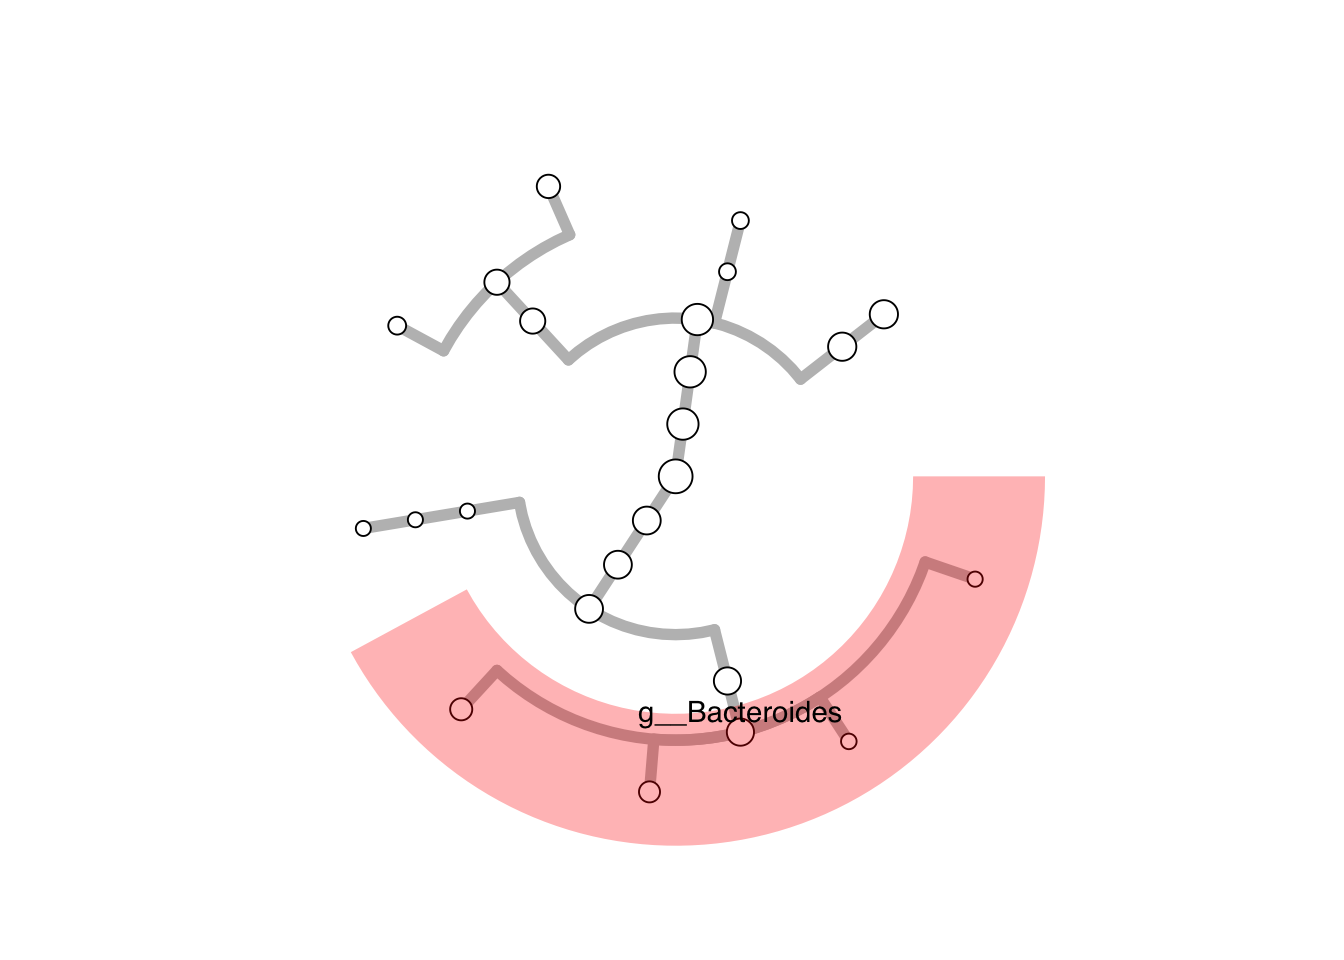
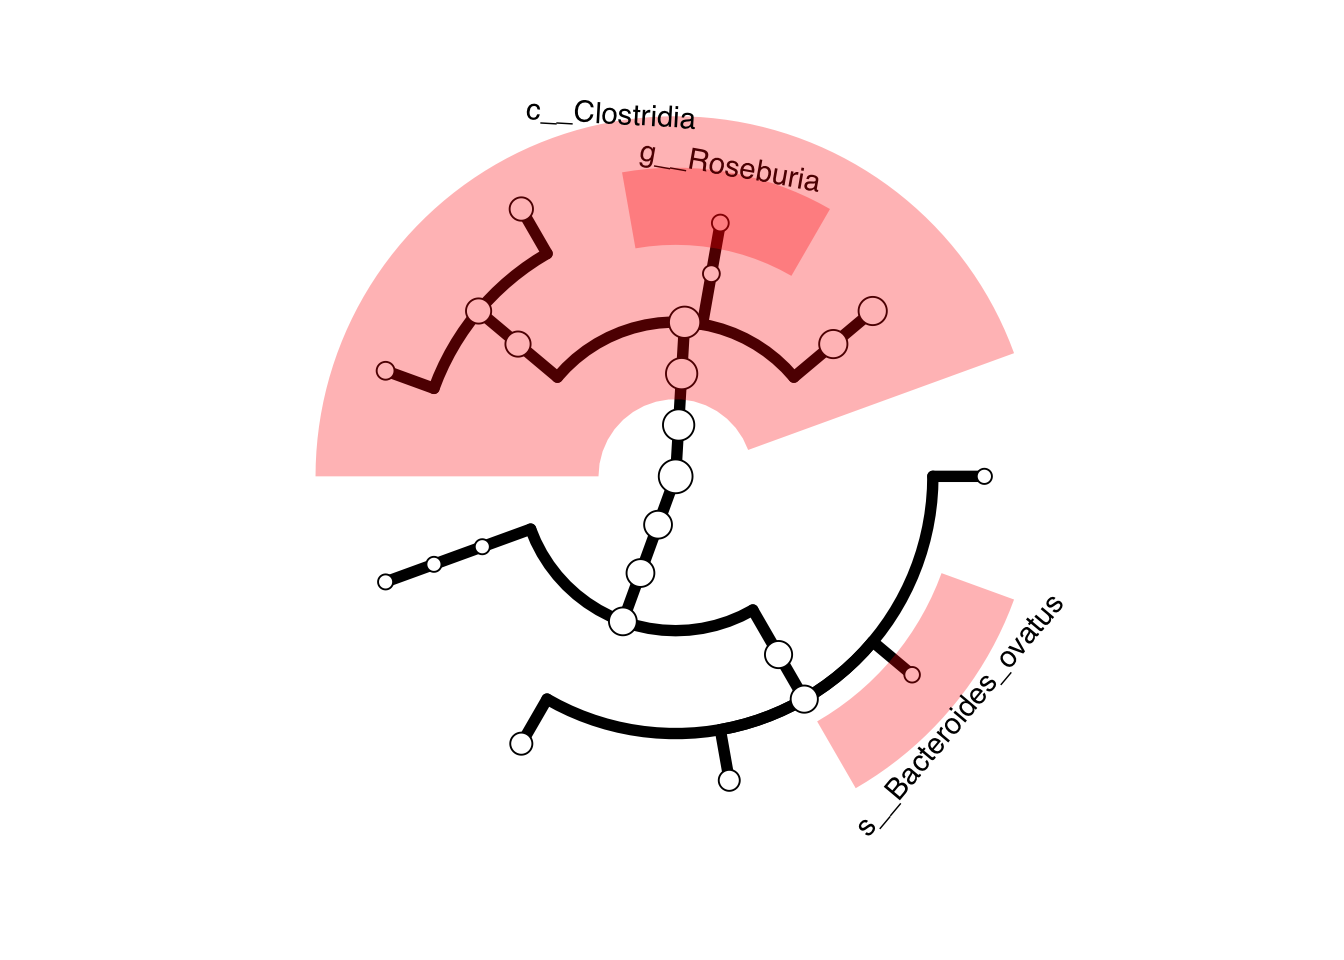
change blog

Changed region(s): [[0.2188, 0.0938, 0.7812, 0.9062]]

diff --git a/public/post/2018-01-18-r-metagenomeviz/index.html b/public/post/2018-01-18-r-metagenomeviz/index.html
@@ -21,8 +21,8 @@
 download.file(&quot;https://bitbucket.org/biobakery/biobakery/raw/tip/demos/biobakery_demos/data/metaphlan2/output/SRS014459-Stool_profile.txt&quot;, &#39;~/Downloads/SRS014459-Stool_profile.txt&#39;) knitr::kable(head(read.table(&#39;~/Downloads/SRS014459-Stool_profile.txt&#39;)))   V1 V2    k__Bacteria 100.00000  k__Bacteria|p__Firmicutes 64.91753  k__Bacteria|p__Bacteroidetes 35.08247  k__Bacteria|p__Firmicutes|c__Clostridia 64.91753  k__Bacteria|p__Bacteroidetes|c__Bacteroidia 35.08247  k__Bacteria|p__Firmicutes|c__Clostridia|o__Clostridiales 64.91753    第一列是分类信息注释，第二列是相对丰度（百分比）。在做这种图可视化方面，目前个人见过最强大的是GraPhlAn:
 官网上相关的教程很详细，但是问题是，这个完全封闭的python程序，想要hack，还真的是挺难得。Krona可能是另一个选择，但是同样还是会有同样的问题。最近发布的R包Metacoder，画出的图个人真心不是很喜欢：
 跟Y叔讨论了一下用ggtree实现像GraPhlAn那样图的可能性，得到了肯定的答复，于是开始自己造轮子。
- MicrobiomeViz–千里之行，始于足下 其实可以写一个简单的函数，但是还是想做一个拓展性更强的东西，所以就有了这个包（其实还是只有一个函数：P）： https://github.com/lch14forever/microbiomeViz
- MetaPhlan结果的parser 安装 devtools::install_github(&quot;lch14forever/microbiomeViz&quot;) ## Warning in strptime(x, fmt, tz = &quot;GMT&quot;): unknown timezone &#39;zone/tz/2017c. ## 1.0/zoneinfo/Asia/Singapore&#39; ## Downloading GitHub repo lch14forever/microbiomeViz@master ## from URL https://api.github.com/repos/lch14forever/microbiomeViz/zipball/master ## Installing microbiomeViz ## &#39;/Library/Frameworks/R.framework/Resources/bin/R&#39; --no-site-file \ ## --no-environ --no-save --no-restore --quiet CMD INSTALL \ ## &#39;/private/var/folders/zv/0bnmcthx17q24t21qm4fd7wr0000gn/T/RtmpaELuDY/devtools9801fd44368/lch14forever-microbiomeViz-885e33f&#39; \ ## --library=&#39;/Library/Frameworks/R.">
+ MicrobiomeViz–千里之行，始于足下 其实可以写一个简单的函数，但是还是想做一个拓展性更强的东西，所以就有了这个包（不断完善中）： https://github.com/lch14forever/microbiomeViz
+ MetaPhlan结果的parser 安装 devtools::install_github(&quot;lch14forever/microbiomeViz&quot;) ## Warning in strptime(x, fmt, tz = &quot;GMT&quot;): unknown timezone &#39;zone/tz/2017c. ## 1.0/zoneinfo/Asia/Singapore&#39; ## Skipping install of &#39;microbiomeViz&#39; from a github remote, the SHA1 (c9d34c06) has not changed since last install.">
 
   
   <link rel="alternate" hreflang="en-us" href="/post/2018-01-18-r-metagenomeviz/">
@@ -100,8 +100,8 @@ download.file(&quot;https://bitbucket.org/biobakery/biobakery/raw/tip/demos/biob
 download.file(&quot;https://bitbucket.org/biobakery/biobakery/raw/tip/demos/biobakery_demos/data/metaphlan2/output/SRS014459-Stool_profile.txt&quot;, &#39;~/Downloads/SRS014459-Stool_profile.txt&#39;) knitr::kable(head(read.table(&#39;~/Downloads/SRS014459-Stool_profile.txt&#39;)))   V1 V2    k__Bacteria 100.00000  k__Bacteria|p__Firmicutes 64.91753  k__Bacteria|p__Bacteroidetes 35.08247  k__Bacteria|p__Firmicutes|c__Clostridia 64.91753  k__Bacteria|p__Bacteroidetes|c__Bacteroidia 35.08247  k__Bacteria|p__Firmicutes|c__Clostridia|o__Clostridiales 64.91753    第一列是分类信息注释，第二列是相对丰度（百分比）。在做这种图可视化方面，目前个人见过最强大的是GraPhlAn:
 官网上相关的教程很详细，但是问题是，这个完全封闭的python程序，想要hack，还真的是挺难得。Krona可能是另一个选择，但是同样还是会有同样的问题。最近发布的R包Metacoder，画出的图个人真心不是很喜欢：
 跟Y叔讨论了一下用ggtree实现像GraPhlAn那样图的可能性，得到了肯定的答复，于是开始自己造轮子。
- MicrobiomeViz–千里之行，始于足下 其实可以写一个简单的函数，但是还是想做一个拓展性更强的东西，所以就有了这个包（其实还是只有一个函数：P）： https://github.com/lch14forever/microbiomeViz
- MetaPhlan结果的parser 安装 devtools::install_github(&quot;lch14forever/microbiomeViz&quot;) ## Warning in strptime(x, fmt, tz = &quot;GMT&quot;): unknown timezone &#39;zone/tz/2017c. ## 1.0/zoneinfo/Asia/Singapore&#39; ## Downloading GitHub repo lch14forever/microbiomeViz@master ## from URL https://api.github.com/repos/lch14forever/microbiomeViz/zipball/master ## Installing microbiomeViz ## &#39;/Library/Frameworks/R.framework/Resources/bin/R&#39; --no-site-file \ ## --no-environ --no-save --no-restore --quiet CMD INSTALL \ ## &#39;/private/var/folders/zv/0bnmcthx17q24t21qm4fd7wr0000gn/T/RtmpaELuDY/devtools9801fd44368/lch14forever-microbiomeViz-885e33f&#39; \ ## --library=&#39;/Library/Frameworks/R.">
+ MicrobiomeViz–千里之行，始于足下 其实可以写一个简单的函数，但是还是想做一个拓展性更强的东西，所以就有了这个包（不断完善中）： https://github.com/lch14forever/microbiomeViz
+ MetaPhlan结果的parser 安装 devtools::install_github(&quot;lch14forever/microbiomeViz&quot;) ## Warning in strptime(x, fmt, tz = &quot;GMT&quot;): unknown timezone &#39;zone/tz/2017c. ## 1.0/zoneinfo/Asia/Singapore&#39; ## Skipping install of &#39;microbiomeViz&#39; from a github remote, the SHA1 (c9d34c06) has not changed since last install.">
   <meta property="og:locale" content="en-us">
   
   <meta property="article:published_time" content="2018-01-18T00:00:00&#43;00:00">
@@ -271,7 +271,7 @@ download.file(&quot;https://bitbucket.org/biobakery/biobakery/raw/tip/demos/biob
   
   <span class="middot-divider"></span>
   <span class="article-reading-time">
-    2 min read
+    1 min read
   </span>
   
 
@@ -336,7 +336,7 @@ knitr::kable(head(read.table(&#39;~/Downloads/SRS014459-Stool_profile.txt&#39;))
 </section>
 <section id="microbiomeviz" class="level3">
 <h3>MicrobiomeViz–千里之行，始于足下</h3>
-<p>其实可以写一个简单的函数，但是还是想做一个拓展性更强的东西，所以就有了这个包（其实还是只有一个函数：P）： <a href="https://github.com/lch14forever/microbiomeViz" class="uri">https://github.com/lch14forever/microbiomeViz</a></p>
+<p>其实可以写一个简单的函数，但是还是想做一个拓展性更强的东西，所以就有了这个包（不断完善中）： <a href="https://github.com/lch14forever/microbiomeViz" class="uri">https://github.com/lch14forever/microbiomeViz</a></p>
 </section>
 <section id="metaphlanparser" class="level3">
 <h3>MetaPhlan结果的parser</h3>
@@ -345,68 +345,48 @@ knitr::kable(head(read.table(&#39;~/Downloads/SRS014459-Stool_profile.txt&#39;))
 <pre class="r"><code>devtools::install_github(&quot;lch14forever/microbiomeViz&quot;)</code></pre>
 <pre><code>## Warning in strptime(x, fmt, tz = &quot;GMT&quot;): unknown timezone &#39;zone/tz/2017c.
 ## 1.0/zoneinfo/Asia/Singapore&#39;</code></pre>
-<pre><code>## Downloading GitHub repo lch14forever/microbiomeViz@master
-## from URL https://api.github.com/repos/lch14forever/microbiomeViz/zipball/master</code></pre>
-<pre><code>## Installing microbiomeViz</code></pre>
-<pre><code>## &#39;/Library/Frameworks/R.framework/Resources/bin/R&#39; --no-site-file  \
-##   --no-environ --no-save --no-restore --quiet CMD INSTALL  \
-##   &#39;/private/var/folders/zv/0bnmcthx17q24t21qm4fd7wr0000gn/T/RtmpaELuDY/devtools9801fd44368/lch14forever-microbiomeViz-885e33f&#39;  \
-##   --library=&#39;/Library/Frameworks/R.framework/Versions/3.4/Resources/library&#39;  \
-##   --install-tests</code></pre>
-<pre><code>## </code></pre>
+<pre><code>## Skipping install of &#39;microbiomeViz&#39; from a github remote, the SHA1 (c9d34c06) has not changed since last install.
+##   Use `force = TRUE` to force installation</code></pre>
 </section>
 <section class="level4">
 <h4>使用</h4>
+<p>目前有三个函数：</p>
+<ul>
+<li><code>parseMetaphlanTSV</code>: 将MetaPhlAn的表格转换成tree格式</li>
+<li><code>tree.backbone</code>: 做出树的骨架</li>
+<li><code>clade.anno</code>: 高亮一个节点及其下属所有节点</li>
+</ul>
 <p>这个其实是基于之前做桑基图时写的那些代码，将MetaPhlan表格转化为了phylobase的phylo4d类：</p>
-<pre class="r"><code>library(microbiomeViz)
-tree &lt;- parseMetaphlanTSV(&#39;~/Downloads/SRS014459-Stool_profile.txt&#39;)</code></pre>
-<pre><code>## Warning in checkTree(object): Tree contains singleton nodes.
-
-## Warning in checkTree(object): Tree contains singleton nodes.</code></pre>
+<pre class="r"><code>library(microbiomeViz)</code></pre>
+<pre><code>## Warning: replacing previous import &#39;ape::rotate&#39; by &#39;ggtree::rotate&#39; when
+## loading &#39;microbiomeViz&#39;</code></pre>
+<pre class="r"><code>data(&quot;SRS014459_Stool_profile&quot;)                    ## 上面的示例数据已经加如microbiomeViz
+tr &lt;- parseMetaphlanTSV(SRS014459_Stool_profile)   ## parsing</code></pre>
 </section>
 <section id="ggtree" class="level4">
-<h4>ggtree的大戏</h4>
-<p>画出主干</p>
-<pre class="r"><code>library(ggtree)</code></pre>
-<pre><code>## Warning: package &#39;ggtree&#39; was built under R version 3.4.3</code></pre>
-<pre><code>## Loading required package: ggplot2</code></pre>
-<pre><code>## Loading required package: treeio</code></pre>
-<pre><code>## ggtree v1.10.2  For help: https://guangchuangyu.github.io/ggtree
-## 
-## If you use ggtree in published research, please cite:
-## Guangchuang Yu, David Smith, Huachen Zhu, Yi Guan, Tommy Tsan-Yuk Lam. ggtree: an R package for visualization and annotation of phylogenetic trees with their covariates and other associated data. Methods in Ecology and Evolution 2017, 8(1):28-36, doi:10.1111/2041-210X.12628</code></pre>
-<pre class="r"><code>t &lt;- ggtree(tree, size=2, col=&#39;grey&#39;, layout = &#39;circular&#39;) + 
-    geom_point(aes(size=I(nodeSize)), shape=21, fill=&#39;white&#39;)
-t</code></pre>
+<h4>基于ggtree的大戏</h4>
+<p>做出树的骨架</p>
+<pre class="r"><code>p &lt;- tree.backbone(tr)
+p</code></pre>
 <p><img src="/post/2018-01-18-r-metagenomeViz_files/figure-html/unnamed-chunk-4-1.png" width="672" /></p>
-<p>比如说我做了一个检验，发现Bacteroides属在疾病组显著增高，那么我们可以像GraPhlAn那样把它高亮出来：</p>
-<pre class="r"><code>t &lt;- t + geom_hilight(node=22, fill = &#39;red&#39;, alpha = 0.3, extend = 1) +
-   geom_text2(aes(subset=(node==22), label=label, vjust=-0.5))
-t</code></pre>
+<p>微生物组常见的操作就是组间比较，我们可以向GraPhlAn那样把显著的节点高亮出来：</p>
+<pre class="r"><code>## 假设以下taxa在疾病组显著
+anno.data &lt;- data.frame(node=c(&quot;g__Roseburia&quot;, &quot;c__Clostridia&quot;, &quot;s__Bacteroides_ovatus&quot;),
+                       color=&#39;red&#39;, stringsAsFactors = FALSE)
+p &lt;- clade.anno(p, anno.data)
+p</code></pre>
 <p><img src="/post/2018-01-18-r-metagenomeViz_files/figure-html/unnamed-chunk-5-1.png" width="672" /></p>
-<p>其中B. ovatus也是在疾病组显著高：</p>
-<pre class="r"><code>t &lt;- t + geom_hilight(node=7, fill = &#39;red&#39;, alpha = 0.3, extend = 1) +
-   geom_text2(aes(subset=(node==7), label=label, vjust=1))
-t</code></pre>
-<p><img src="/post/2018-01-18-r-metagenomeViz_files/figure-html/unnamed-chunk-6-1.png" width="672" /></p>
-<p>还想标注Clostridias在疾病组显著低：</p>
-<pre class="r"><code>t &lt;- t + geom_hilight(node=13, fill = &#39;darkgreen&#39;, alpha = 0.3, extend = 1) +
-   geom_text2(aes(subset=(node==13), label=label))
-t</code></pre>
-<p><img src="/post/2018-01-18-r-metagenomeViz_files/figure-html/unnamed-chunk-7-1.png" width="672" /></p>
 </section>
 </section>
 <section class="level3">
 <h3>希望有更多的拓展</h3>
-<p>肯定是不满足于只有这么个parser而已，其实有好多功能都想去实现：</p>
+<p>所有的操作均基于<code>treedata</code>和<code>ggtree</code>，正因为有了这些灵活的框架，上面的几个例子可拓展性还是很强的。</p>
 <ul>
 <li>[ ] 多个MetaPhlan表，节点大小取平均</li>
 <li>[ ] Biom数据支持</li>
-<li>[ ] 根据统计检验结果自动添加高亮</li>
 <li>[ ] 和heatmap结合</li>
 <li>[ ] …</li>
 </ul>
-<p>这一切成为可能，都是因为有了ggtree这样一个灵活的框架。</p>
 </section>
 
       </div>

diff --git a/content/post/2018-01-18-r-metagenomeViz.html b/content/post/2018-01-18-r-metagenomeViz.html
@@ -56,7 +56,7 @@ knitr::kable(head(read.table(&#39;~/Downloads/SRS014459-Stool_profile.txt&#39;))
 </section>
 <section id="microbiomeviz" class="level3">
 <h3>MicrobiomeViz–千里之行，始于足下</h3>
-<p>其实可以写一个简单的函数，但是还是想做一个拓展性更强的东西，所以就有了这个包（其实还是只有一个函数：P）： <a href="https://github.com/lch14forever/microbiomeViz" class="uri">https://github.com/lch14forever/microbiomeViz</a></p>
+<p>其实可以写一个简单的函数，但是还是想做一个拓展性更强的东西，所以就有了这个包（不断完善中）： <a href="https://github.com/lch14forever/microbiomeViz" class="uri">https://github.com/lch14forever/microbiomeViz</a></p>
 </section>
 <section id="metaphlanparser" class="level3">
 <h3>MetaPhlan结果的parser</h3>
@@ -65,66 +65,46 @@ knitr::kable(head(read.table(&#39;~/Downloads/SRS014459-Stool_profile.txt&#39;))
 <pre class="r"><code>devtools::install_github(&quot;lch14forever/microbiomeViz&quot;)</code></pre>
 <pre><code>## Warning in strptime(x, fmt, tz = &quot;GMT&quot;): unknown timezone &#39;zone/tz/2017c.
 ## 1.0/zoneinfo/Asia/Singapore&#39;</code></pre>
-<pre><code>## Downloading GitHub repo lch14forever/microbiomeViz@master
-## from URL https://api.github.com/repos/lch14forever/microbiomeViz/zipball/master</code></pre>
-<pre><code>## Installing microbiomeViz</code></pre>
-<pre><code>## &#39;/Library/Frameworks/R.framework/Resources/bin/R&#39; --no-site-file  \
-##   --no-environ --no-save --no-restore --quiet CMD INSTALL  \
-##   &#39;/private/var/folders/zv/0bnmcthx17q24t21qm4fd7wr0000gn/T/RtmpaELuDY/devtools9801fd44368/lch14forever-microbiomeViz-885e33f&#39;  \
-##   --library=&#39;/Library/Frameworks/R.framework/Versions/3.4/Resources/library&#39;  \
-##   --install-tests</code></pre>
-<pre><code>## </code></pre>
+<pre><code>## Skipping install of &#39;microbiomeViz&#39; from a github remote, the SHA1 (c9d34c06) has not changed since last install.
+##   Use `force = TRUE` to force installation</code></pre>
 </section>
 <section class="level4">
 <h4>使用</h4>
+<p>目前有三个函数：</p>
+<ul>
+<li><code>parseMetaphlanTSV</code>: 将MetaPhlAn的表格转换成tree格式</li>
+<li><code>tree.backbone</code>: 做出树的骨架</li>
+<li><code>clade.anno</code>: 高亮一个节点及其下属所有节点</li>
+</ul>
 <p>这个其实是基于之前做桑基图时写的那些代码，将MetaPhlan表格转化为了phylobase的phylo4d类：</p>
-<pre class="r"><code>library(microbiomeViz)
-tree &lt;- parseMetaphlanTSV(&#39;~/Downloads/SRS014459-Stool_profile.txt&#39;)</code></pre>
-<pre><code>## Warning in checkTree(object): Tree contains singleton nodes.
-
-## Warning in checkTree(object): Tree contains singleton nodes.</code></pre>
+<pre class="r"><code>library(microbiomeViz)</code></pre>
+<pre><code>## Warning: replacing previous import &#39;ape::rotate&#39; by &#39;ggtree::rotate&#39; when
+## loading &#39;microbiomeViz&#39;</code></pre>
+<pre class="r"><code>data(&quot;SRS014459_Stool_profile&quot;)                    ## 上面的示例数据已经加如microbiomeViz
+tr &lt;- parseMetaphlanTSV(SRS014459_Stool_profile)   ## parsing</code></pre>
 </section>
 <section id="ggtree" class="level4">
-<h4>ggtree的大戏</h4>
-<p>画出主干</p>
-<pre class="r"><code>library(ggtree)</code></pre>
-<pre><code>## Warning: package &#39;ggtree&#39; was built under R version 3.4.3</code></pre>
-<pre><code>## Loading required package: ggplot2</code></pre>
-<pre><code>## Loading required package: treeio</code></pre>
-<pre><code>## ggtree v1.10.2  For help: https://guangchuangyu.github.io/ggtree
-## 
-## If you use ggtree in published research, please cite:
-## Guangchuang Yu, David Smith, Huachen Zhu, Yi Guan, Tommy Tsan-Yuk Lam. ggtree: an R package for visualization and annotation of phylogenetic trees with their covariates and other associated data. Methods in Ecology and Evolution 2017, 8(1):28-36, doi:10.1111/2041-210X.12628</code></pre>
-<pre class="r"><code>t &lt;- ggtree(tree, size=2, col=&#39;grey&#39;, layout = &#39;circular&#39;) + 
-    geom_point(aes(size=I(nodeSize)), shape=21, fill=&#39;white&#39;)
-t</code></pre>
+<h4>基于ggtree的大戏</h4>
+<p>做出树的骨架</p>
+<pre class="r"><code>p &lt;- tree.backbone(tr)
+p</code></pre>
 <p><img src="/post/2018-01-18-r-metagenomeViz_files/figure-html/unnamed-chunk-4-1.png" width="672" /></p>
-<p>比如说我做了一个检验，发现Bacteroides属在疾病组显著增高，那么我们可以像GraPhlAn那样把它高亮出来：</p>
-<pre class="r"><code>t &lt;- t + geom_hilight(node=22, fill = &#39;red&#39;, alpha = 0.3, extend = 1) +
-   geom_text2(aes(subset=(node==22), label=label, vjust=-0.5))
-t</code></pre>
+<p>微生物组常见的操作就是组间比较，我们可以向GraPhlAn那样把显著的节点高亮出来：</p>
+<pre class="r"><code>## 假设以下taxa在疾病组显著
+anno.data &lt;- data.frame(node=c(&quot;g__Roseburia&quot;, &quot;c__Clostridia&quot;, &quot;s__Bacteroides_ovatus&quot;),
+                       color=&#39;red&#39;, stringsAsFactors = FALSE)
+p &lt;- clade.anno(p, anno.data)
+p</code></pre>
 <p><img src="/post/2018-01-18-r-metagenomeViz_files/figure-html/unnamed-chunk-5-1.png" width="672" /></p>
-<p>其中B. ovatus也是在疾病组显著高：</p>
-<pre class="r"><code>t &lt;- t + geom_hilight(node=7, fill = &#39;red&#39;, alpha = 0.3, extend = 1) +
-   geom_text2(aes(subset=(node==7), label=label, vjust=1))
-t</code></pre>
-<p><img src="/post/2018-01-18-r-metagenomeViz_files/figure-html/unnamed-chunk-6-1.png" width="672" /></p>
-<p>还想标注Clostridias在疾病组显著低：</p>
-<pre class="r"><code>t &lt;- t + geom_hilight(node=13, fill = &#39;darkgreen&#39;, alpha = 0.3, extend = 1) +
-   geom_text2(aes(subset=(node==13), label=label))
-t</code></pre>
-<p><img src="/post/2018-01-18-r-metagenomeViz_files/figure-html/unnamed-chunk-7-1.png" width="672" /></p>
 </section>
 </section>
 <section class="level3">
 <h3>希望有更多的拓展</h3>
-<p>肯定是不满足于只有这么个parser而已，其实有好多功能都想去实现：</p>
+<p>所有的操作均基于<code>treedata</code>和<code>ggtree</code>，正因为有了这些灵活的框架，上面的几个例子可拓展性还是很强的。</p>
 <ul>
 <li>[ ] 多个MetaPhlan表，节点大小取平均</li>
 <li>[ ] Biom数据支持</li>
-<li>[ ] 根据统计检验结果自动添加高亮</li>
 <li>[ ] 和heatmap结合</li>
 <li>[ ] …</li>
 </ul>
-<p>这一切成为可能，都是因为有了ggtree这样一个灵活的框架。</p>
 </section>

diff --git a/public/tags/metagenomics/index.html b/public/tags/metagenomics/index.html
@@ -92,7 +92,7 @@
   <meta property="og:description" content="PhD student">
   <meta property="og:locale" content="en-us">
   
-  <meta property="og:updated_time" content="2017-11-28T00:00:00&#43;00:00">
+  <meta property="og:updated_time" content="2017-11-07T00:00:00&#43;00:00">
   
 
   
@@ -243,10 +243,16 @@
   
   
   <div>
-    <h2><a href="/post/2017-11-18-r-absolute/">有了绝对定量就完了？</a></h2>
+    <h2><a href="/post/2017-11-07-r-curatedmetagenomicdata_retrievedata/">从curatedMetagenoimcData提取健康样本的微生物组</a></h2>
     <div class="article-style">
       
-      Jeroen Raes研究组上周在Nature发表<a href="https://www.nature.com/articles/nature24460" target="_blank">文章</a>，使用Flow cytometry估算粪便中的微生物细胞数量，配合16S测序算出的相对丰度，估算出OTU的绝对数量（absolute abundance）。文章很多结论都印证了直接应用相对丰度进行分析时，我们所看到的很多现象是成分数据性质的假象（可以想象，由于相对丰度在每一个样本中相加为1或100，一个OTU相对丰度增加必将引起其他OTU相对丰度减少，所谓的compositional bias）。
+      <h2 id="简介">简介</h2>
+
+<p>有人问我，这个curatedMetagenomicData有什么作用？对于我们这些research parasite(出处请见<a href="http://www.nejm.org/doi/full/10.1056/NEJMe1516564#t=article" target="_blank">NEJM社论</a>)来说，这样庞大的数据集当然是用来挖信息或者是测试算法了：
+1. 作为validation cohort来验证已发现的结论。如我们的<a href="https://www.nature.com/articles/nmicrobiol2016106" target="_blank">这篇文章</a>都使用了2014年Oh et al发表于Nature的数据来佐证我们发现的Staphylococcus特异性突变。
+2. 用来测试新方法，发现新的生物问题。如<a href="http://journals.plos.org/plosgenetics/article?id=10.1371/journal.pgen.1005614" target="_blank">这篇文章</a>中我们也用了Oh et al的数据来观测Malessezia在人体皮肤的分布。
+3. 因为数据中有大量健康人的微生物组（不同研究中的control），我们也可以用它们补充我们的对照组（当然在机器学习中要注意数据不平衡问题）。
+当然最基础的操作，就是要从数据库中提取数据。
       
     </div>
   </div>

diff --git a/public/index.html b/public/index.html
@@ -557,7 +557,7 @@ You can find a copy of my CV <a href="https://github.com/lch14forever/lch14forev
   
   <span class="middot-divider"></span>
   <span class="article-reading-time">
-    2 min read
+    1 min read
   </span>
   
 

diff --git a/public/post/index.html b/public/post/index.html
@@ -261,7 +261,7 @@
   
   <span class="middot-divider"></span>
   <span class="article-reading-time">
-    2 min read
+    1 min read
   </span>
   
 
